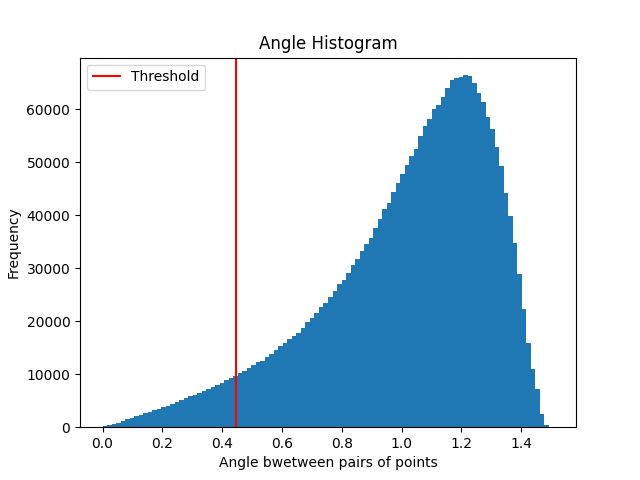
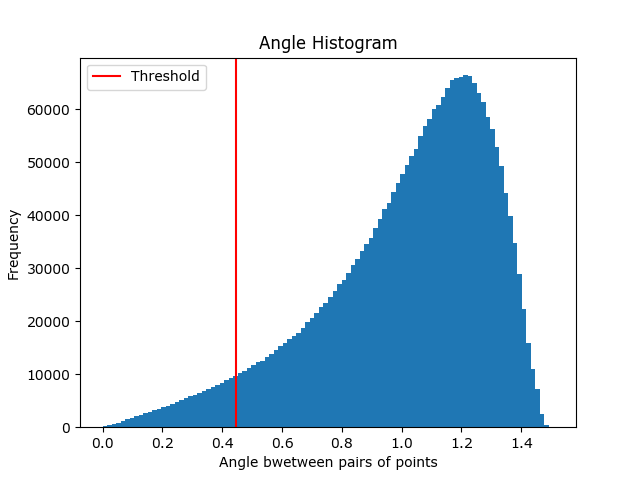
clustering color plot

diff --git a/scrips/manual_clustering.py b/scrips/manual_clustering.py
@@ -129,7 +129,7 @@ for item in layer_0_results_a:
 mean_scores_0_a = np.mean(scores_0_a)
 std_scores_0_a = np.std(scores_0_a)
 #Threshold
-n_std_a = -2
+n_std_a = 2
 threshold_angle = mean_scores_0_a + n_std_a * std_scores_0_a
 # Plot histogram
 plt.figure()
@@ -244,9 +244,16 @@ node_colors = [colors[node_to_cluster[node]] for node in G_both.nodes()]
 
 
 pos = {int(cleaned_data[i, 0]): (cleaned_data[i, 1], cleaned_data[i, 2]) for i in range(len(cleaned_data))}
-nx.draw(G_both, pos, node_size=8, width=0.2, alpha=0.5, with_labels=False, node_color=node_colors)
+nx.draw(G_both, pos, node_size=8, width=0.2, alpha=0.5, with_labels=False)
 plt.title("Combined distance + angle graph")
+plt.savefig(fname = 'Network plot')
+#plt.show()
+plt.close()
+nx.draw(G_both, pos, node_size=8, width=0, alpha=0.5, with_labels=False, node_color=node_colors)
+plt.title("Cluster graph")
+plt.savefig(fname = 'Cluster graph')
 plt.show()
+plt.close()
 print("Combined graph nodes:", G_both.number_of_nodes())
 print("Combined graph edges:", G_both.number_of_edges())
 print("Isolated nodes:", len(list(nx.isolates(G_both))))